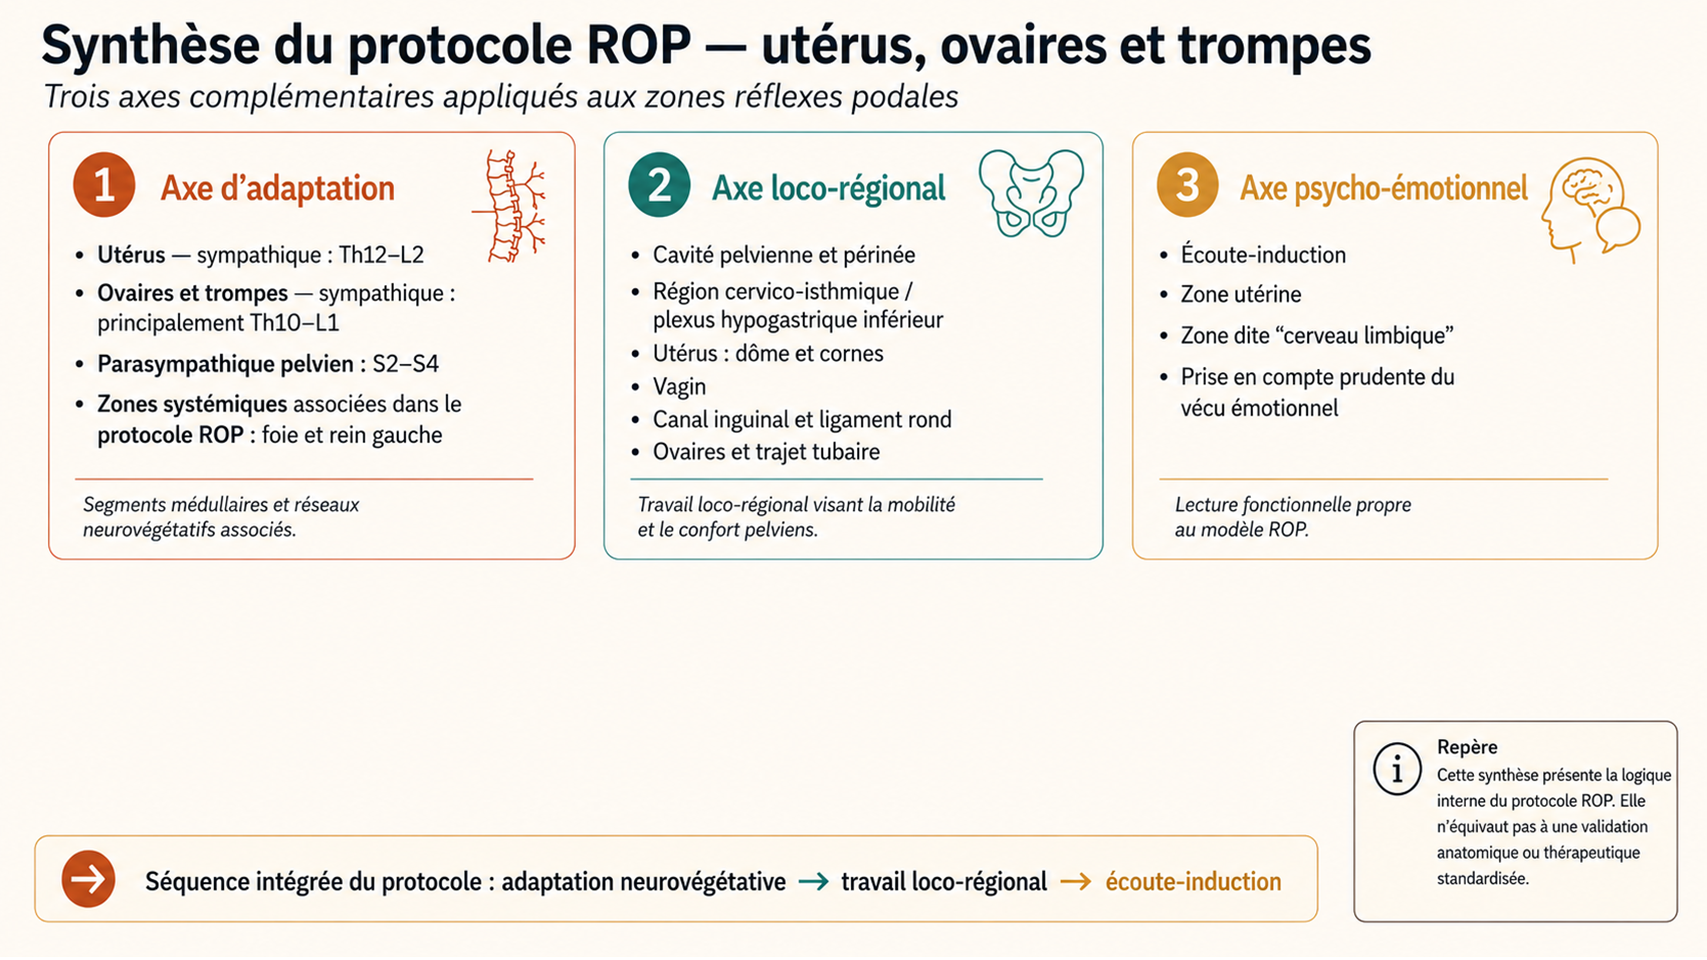
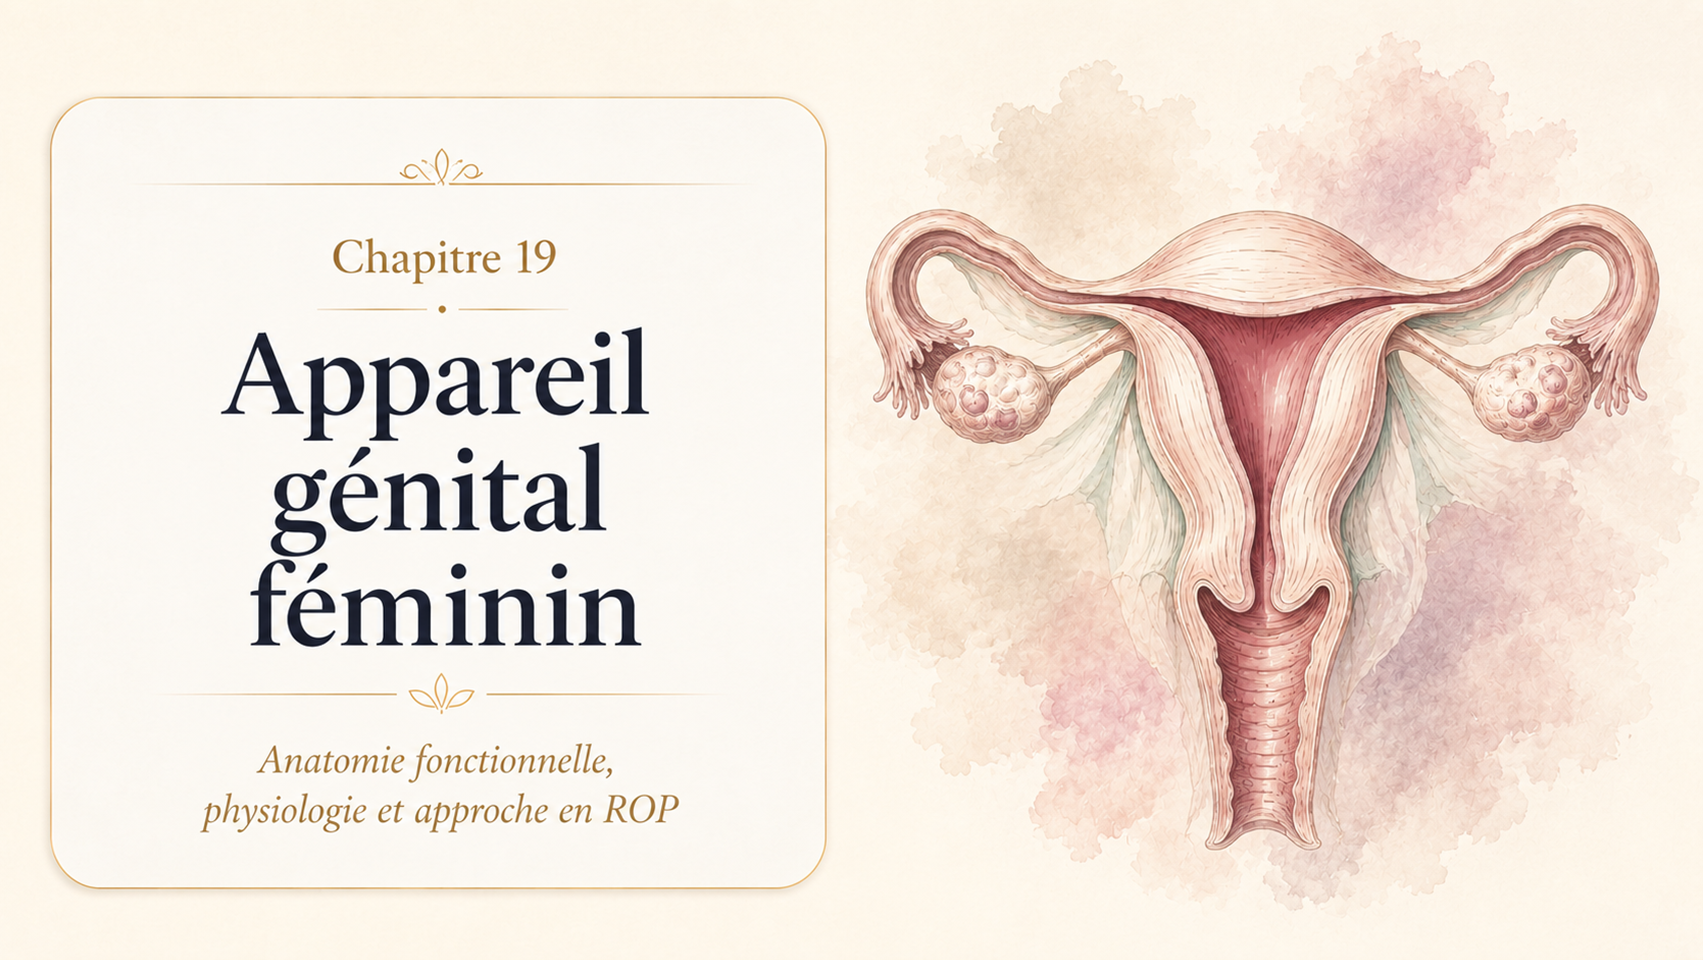
Correct Chapter 19 title and protocol slides

diff --git a/content/chapter19.slidesync.ts b/content/chapter19.slidesync.ts
@@ -41,6 +41,7 @@ export const chapter19Slides: SyncSlide[] = [
   { src: '/chapter-19/slides/slide-31.png', title: 'Règles douloureuses — rôle des prostaglandines' },
   { src: '/chapter-19/slides/slide-32.png', title: 'Endométriose : maladie inflammatoire chronique' },
   { src: '/chapter-19/slides/slide-33.png', title: 'Vécu émotionnel, stress et symptômes uro-génitaux ou mammaires' },
+  { src: '/chapter-19/slides/slide-34.png', title: 'Synthèse du protocole ROP — utérus, ovaires et trompes' },
 ]
 
 export const chapter19SlideAnchors: SyncAnchor[] = [
@@ -75,6 +76,7 @@ export const chapter19SlideAnchors: SyncAnchor[] = [
   { sectionId: 'approche-clinique-commune', blockIndex: 22, slide: 31 },
   { sectionId: 'approche-clinique-commune', blockIndex: 24, slide: 32 },
   { sectionId: 'approche-clinique-commune', blockIndex: 29, slide: 33 },
+  { sectionId: 'zones-reflexes-podales', blockIndex: -1, slide: 34 },
 ]
 
 export const chapter19HalfBreaks: SyncBreakPoint[] = [
